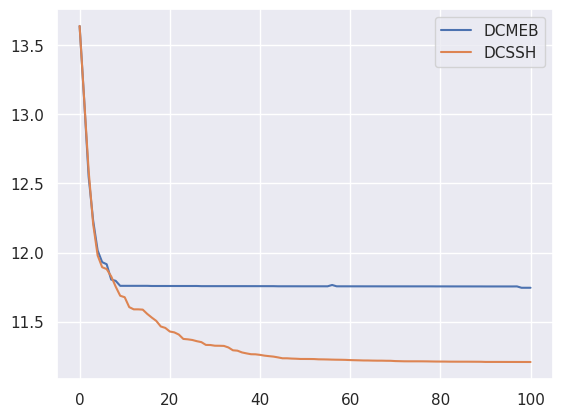
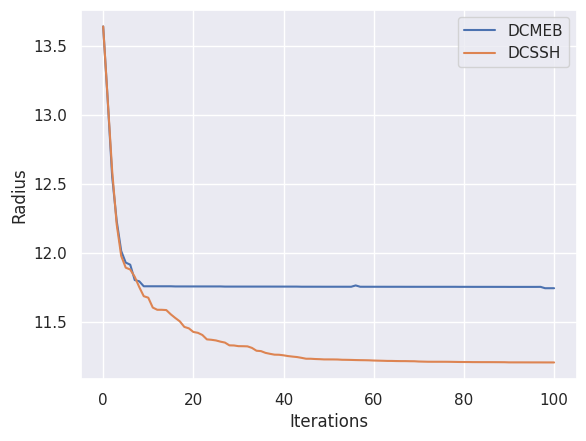
plots

diff --git a/src/benchmarking/trials.py b/src/benchmarking/trials.py
@@ -1,7 +1,12 @@
 import numpy as np
 import timeit
+import pandas as pd
+
+from meb.geometry import find_furthest, k_closest
+from meb.improvement_algorithms import alg__dcmeb, alg__dcssh
 
 from meb.meb_algorithms import alg__socp_heuristic
+from meb.mebwo_algorithms import alg__shrink_avg
 
 from . import utils
 import meb
@@ -125,3 +130,53 @@ def run_trials_alg(func, n, d, eta, num_trials, data_type, log_file=None, **kwar
     avg_times = utils.calc_avg_times(times)
 
     return avg_times
+
+def run_trials_improvement(heuristic, n, d, num_trials, num_iter, data_type, log_file=None, **kwargs):
+    params = {"n": n, "d": d}
+
+    trial_param, trial_param_vals = utils.find_trial_param(params)
+
+    utils.check_log(log_file)
+
+    results = []
+
+    for x in trial_param_vals:
+        params[trial_param] = x
+
+        n_ = params["n"]
+        d_ = params["d"]
+    
+        result = [x]
+
+        for i in range(num_trials):
+            utils.progress_report(x, trial_param, i)
+
+            # load data
+            filename = r"datasets/{0}/{1}_n{2}_d{3}".format(data_type, data_type, n_, d_)
+            if data_type == "uniform_ball_with_outliers":
+                filename += r"_eta{}".format(utils.format_eta(0.9))
+            filename += r"_{}.csv".format(i)
+            data_ = data.loading.from_csv(filename)
+
+            k = int(np.floor(0.9*n_))
+            # solve avg heuristic for center
+            c, _, _ = alg__shrink_avg(data_, eta=0.9)
+
+            # find closest point to c
+            c = find_furthest(c, data_, find_closest=True)
+            data_, r = k_closest(data_, c, k)
+            result.append(r)
+
+            for _ in range(num_iter):
+                if heuristic == "dcmeb":
+                    c, r = alg__dcmeb(data_, c)
+                
+                elif heuristic == "dcssh":
+                    c, r = alg__dcssh(data_, c, r**2)
+
+            result.append(r)
+        
+        results.append(result)
+    
+    results = pd.DataFrame(results)
+    return results

diff --git a/src/meb/geometry.py b/src/meb/geometry.py
@@ -146,11 +146,13 @@ def Q(c, beta, point, gamma) -> float:
         x (float): multiplier for direction to get from point a to the surface of the ball
     """
     alpha = point - c
+    
+    beta_beta = np.dot(beta, beta)
+    alpha_beta = np.dot(alpha, beta)
 
-    beta_beta = beta @ beta
-    alpha_beta = alpha @ beta
+    temp = alpha_beta**2 - beta_beta*(alpha@alpha - gamma)
 
-    discriminant = np.sqrt(alpha_beta**2 - beta_beta*(alpha@alpha - gamma))
+    discriminant = np.sqrt(temp)
 
     x = (-alpha_beta + discriminant)/beta_beta
 

diff --git a/src/meb/improvement_algorithms.py b/src/meb/improvement_algorithms.py
@@ -48,7 +48,7 @@ def alg__dcssh(data, c, gamma, a=None, s=2):
         a = geometry.find_furthest(c, data)
     
     beta = c - a
-    x = min([geometry.Q(c, beta, point, gamma) for point in data])
+    x = min([geometry.Q(c=c, beta=beta, point=point, gamma=gamma) for point in data])
 
     new_c = c - (c-a)*x/2
     new_r = max([np.linalg.norm(new_c - point) for point in data])

diff --git a/src/improvement_example.py b/src/improvement_example.py
@@ -38,6 +38,8 @@ for name, data in datas.items():
 
     plt.plot(range(num_iter+1), r1, label="DCMEB")
     plt.plot(range(num_iter+1), r2, label="DCSSH")
+    plt.xlabel("Iterations")
+    plt.ylabel("Radius")
     plt.legend()
     plt.savefig(r"images/improvement_example/improvement_example_{}".format(name), bbox_inches="tight")
     plt.clf()

diff --git a/src/improvement_benchmarking.py b/src/improvement_benchmarking.py
@@ -1,0 +1,12 @@
+import benchmarking.trials, benchmarking.utils
+import data.loading
+
+heuristic = "dcmeb"
+n = [1000, 4000]
+d = 30
+num_trials = 5
+num_iter = 10
+data_type = "normal"
+
+df = benchmarking.trials.run_trials_improvement(heuristic, n, d, num_trials, num_iter, data_type)
+print(df)
